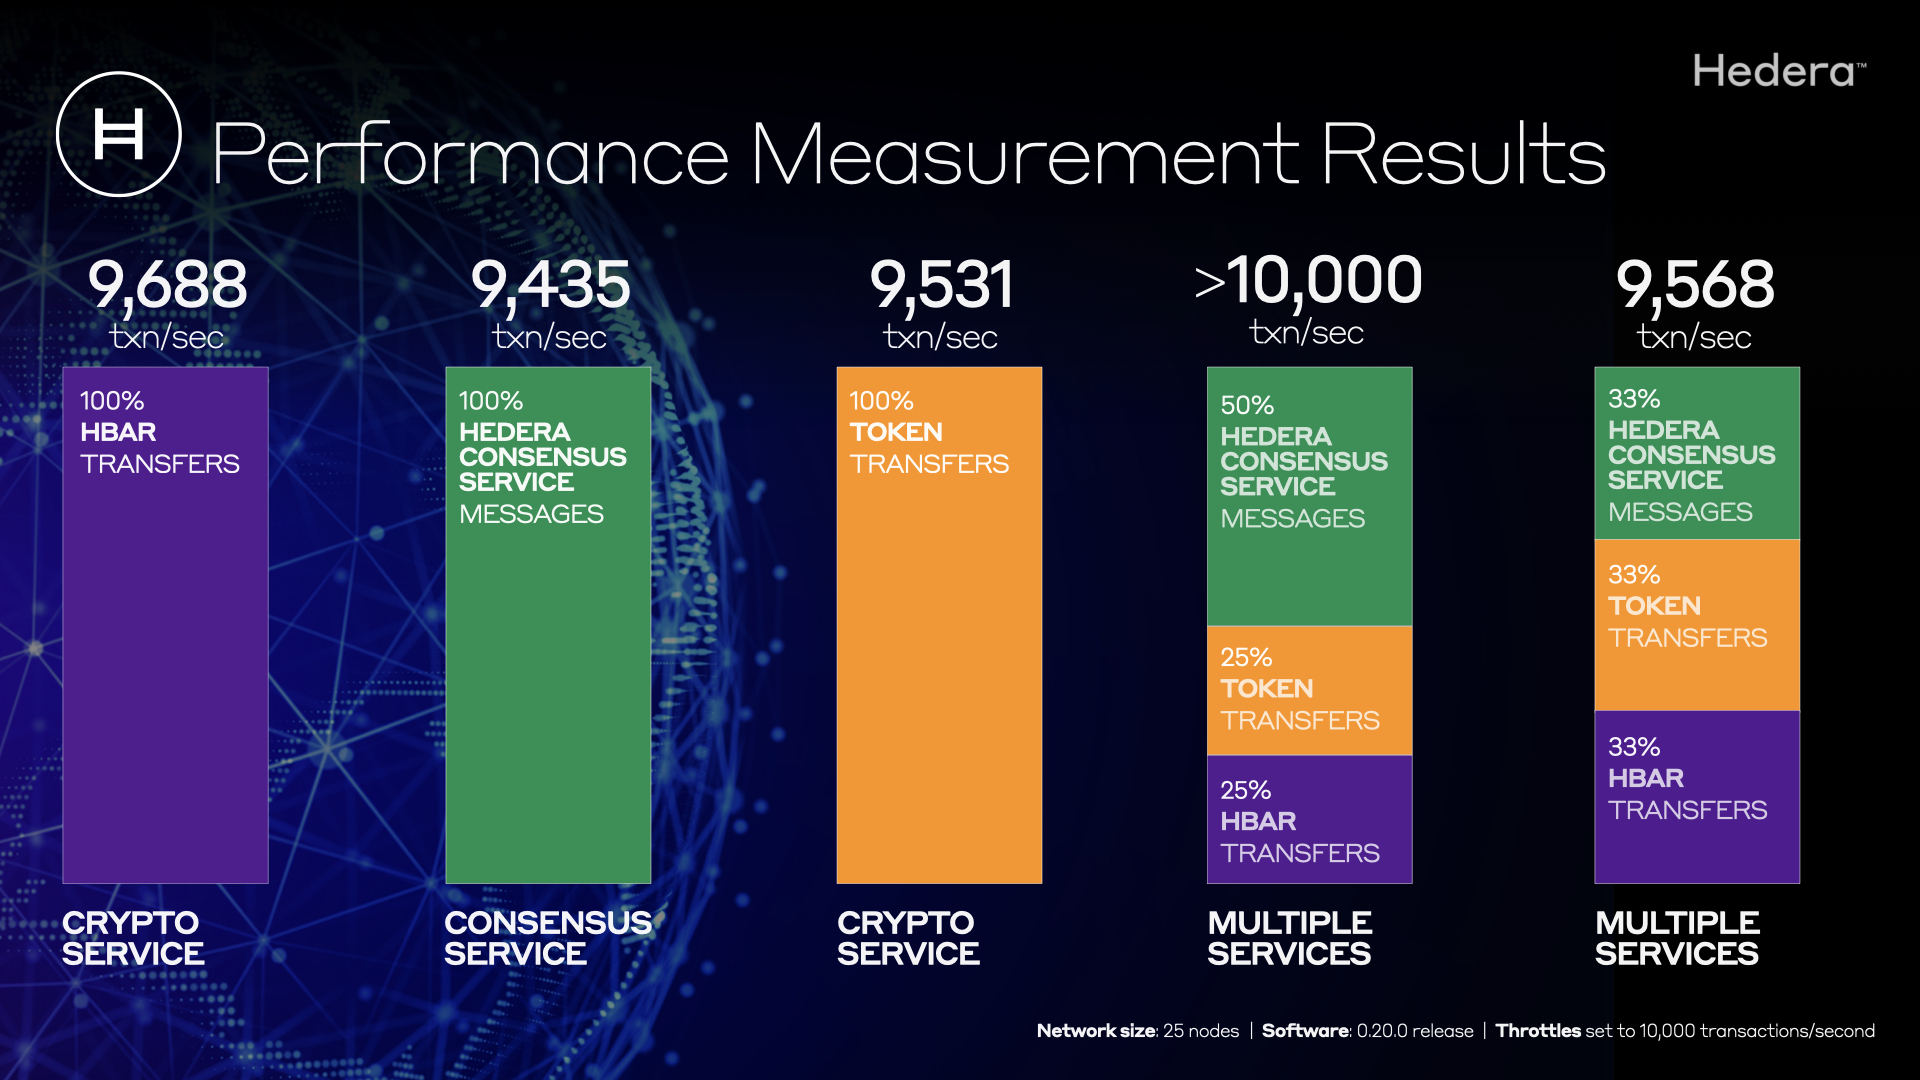
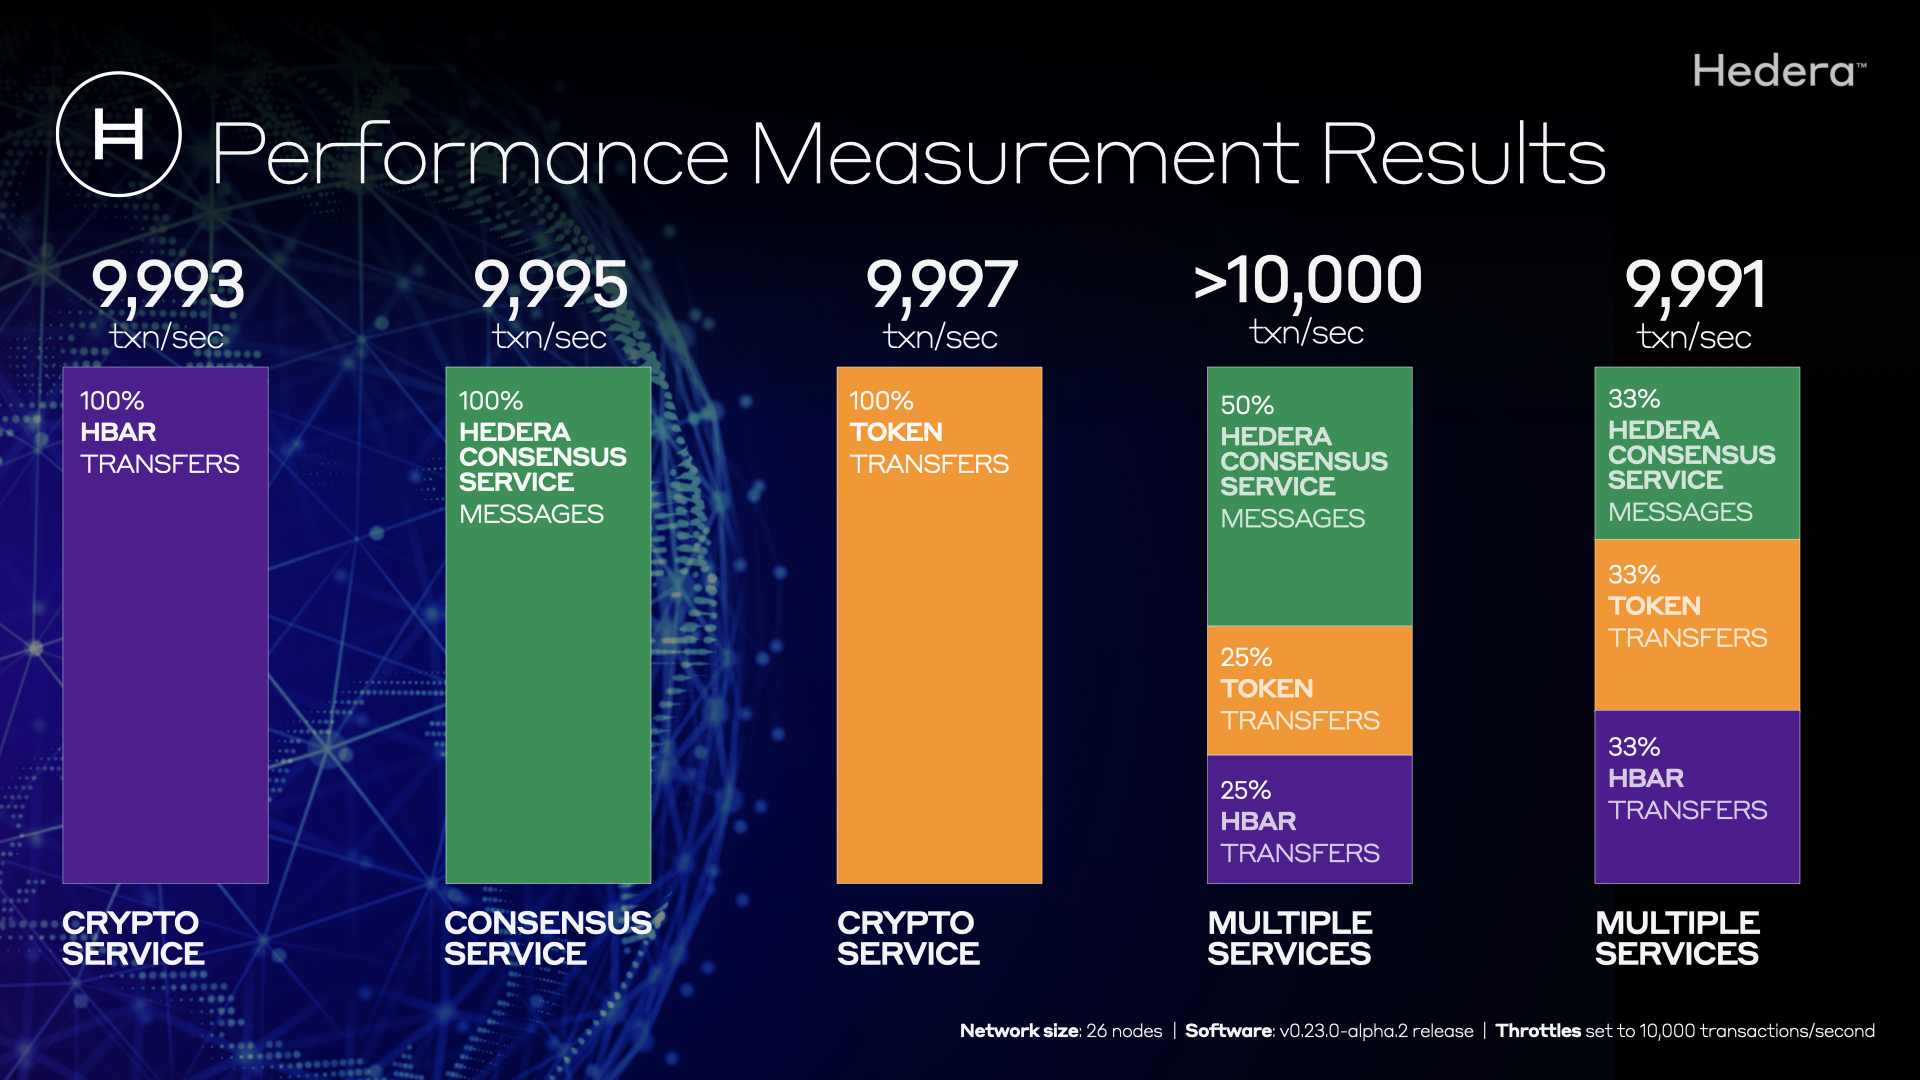
GitBook: [#1377] No subject

diff --git a/docs/release-notes/services.md b/docs/release-notes/services.md
@@ -8,7 +8,7 @@ For the latest versions supported on each network please visit the Hedera status
 
 ## Upcoming Releases
 
-## v0.23
+## [v0.23](https://github.com/hashgraph/hedera-services/releases/tag/v0.23.0)
 
 {% hint style="info" %}
 **MAINNET UPDATE: MARCH 3, 2022**
@@ -18,16 +18,11 @@ For the latest versions supported on each network please visit the Hedera status
 **TESTNET UPDATE:  FEBRUARY 17, 2022**
 {% endhint %}
 
-Hedera Services 0.23 adds some interesting flexibility to our crypto, token, and smart contract services by delivering [HIP-336 (Approval and Allowance API for Tokens)](https://hips.hedera.com/hip/hip-336) and [HIP-329 (Support `CREATE2` opcode)](https://hips.hedera.com/hip/hip-329).
+Hedera Services 0.23 fleshes out our smart contract service via implementation of [HIP-329 (Support `CREATE2` opcode)](https://hips.hedera.com/hip/hip-329). Smart contract developers are now free to use the `CREATE2` EVM opcode. A typical use case is a distributed exchange that wants its pair contracts to have deterministic addresses based on the tokens in the pair.
 
-Account owners can now grant other accounts the permission to manage some portion of their ℏ, fungible token, or NFT assets. This can simplify interactions with a trusted NFT marketplace or merchant, allowing the trusted party to transact on an owner’s account _without_ direct access to the account’s key, or\
-direct involvement of the owner.
+Please note two issues fixed in this release. [First](https://github.com/hashgraph/hedera-services/issues/2841), in release 0.22, the nodes returned the `bytes ledger_id` stipulated by [HIP-33](https://hips.hedera.com/hip/hip-33) as a UTF-8 encoding of a hex string. The returned bytes are now the big-endian representation of the ledger's numeric id. [Second](https://github.com/hashgraph/hedera-services/issues/2857), prior to this release, the record of a `dissociateToken` from a deleted token did not list the discarded balance of the dissociated account if the token's treasury was missing. This is now fixed.
 
-Smart contract developers are now free to use the `CREATE2` EVM opcode. A typical use case is a distributed exchange that wants its pair contracts to have deterministic addresses based on the tokens in the pair.
-
-Please note two issues fixed in this release. [First](https://github.com/hashgraph/hedera-services/issues/2841), in release 0.22, the nodes returned the `bytes ledger_id` stipulated by [HIP-33](https://hips.hedera.com/hip/hip-33) as a UTF-8 encoding of a hex string. The returned bytes are now the big-endian representation of the numeric id’s.
-
-[Second](https://github.com/hashgraph/hedera-services/issues/2857), prior to this release, the record of a `dissociateToken` from a deleted token did not list the discarded balance of the dissociated account if the token’s treasury was missing. This is now fixed.
+![](<../../.gitbook/assets/Performance Measurement Results\_Extract.001 (2).jpeg>)
 
 ## Latest Releases
 
